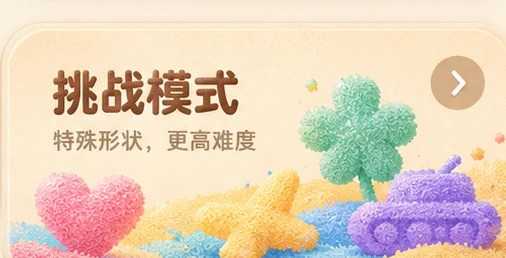
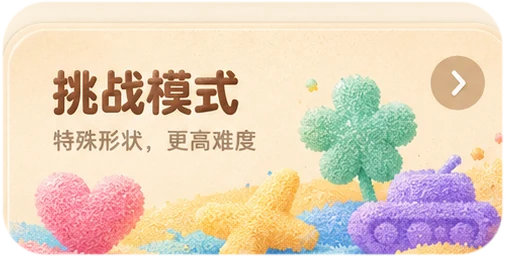
fix(ui): sync approved cutout polishing and responsive layout

Changed region(s): [[0.0, 0.0, 1.0, 1.0]]

diff --git a/src/ui/ApprovedAssetScreens.js b/src/ui/ApprovedAssetScreens.js
@@ -88,11 +88,11 @@ export function ensureApprovedAssetScreens() {
     pointer-events:none;user-select:none;-webkit-user-drag:none;
   }
   .caisha-mode-menu.approved-art-v1.is-main .approved-art__headline {
-    width:min(100%,360px);max-height:clamp(72px,13.6svh,108px);
+    width:min(100%,308px);max-height:clamp(69px,11.8svh,91px);
     margin:6px auto clamp(7px,1.9svh,20px);
   }
   .caisha-mode-menu.approved-art-v1.is-level .approved-art__headline {
-    width:min(100%,352px);max-height:clamp(103px,18svh,157px);
+    width:min(100%,314px);max-height:clamp(97px,15.4svh,128px);
     margin:0 auto clamp(6px,1.1svh,12px);
   }
   .caisha-mode-menu.approved-art-v1 .caisha-mode-menu__items {
@@ -105,7 +105,7 @@ export function ensureApprovedAssetScreens() {
     background:transparent !important;box-shadow:none !important;overflow:visible !important;
   }
   .caisha-mode-menu.approved-art-v1.is-main .caisha-mode-menu__items {
-    gap:clamp(10px,1.8svh,19px);padding-bottom:18svh !important;
+    width:min(100%,330px) !important;margin:0 auto !important;gap:clamp(9px,1.4svh,15px);padding-bottom:18svh !important;
   }
   .caisha-mode-menu.approved-art-v1.is-main .caisha-mode-menu__item {
     box-sizing:border-box !important;position:relative !important;display:block !important;
@@ -135,7 +135,7 @@ export function ensureApprovedAssetScreens() {
   }
   .caisha-mode-menu.approved-art-v1 .approved-art__level-grid {
     width:100%;display:grid;grid-template-columns:repeat(3,minmax(0,1fr));
-    gap:clamp(9px,1.4svh,17px) clamp(10px,2.1vw,16px);
+    gap:clamp(9px,1.4svh,15px) clamp(10px,2vw,14px);margin:0 auto;width:min(100%,330px);
   }
   .caisha-mode-menu.approved-art-v1 .approved-art__level-card {
     position:relative;box-sizing:border-box;display:block !important;
